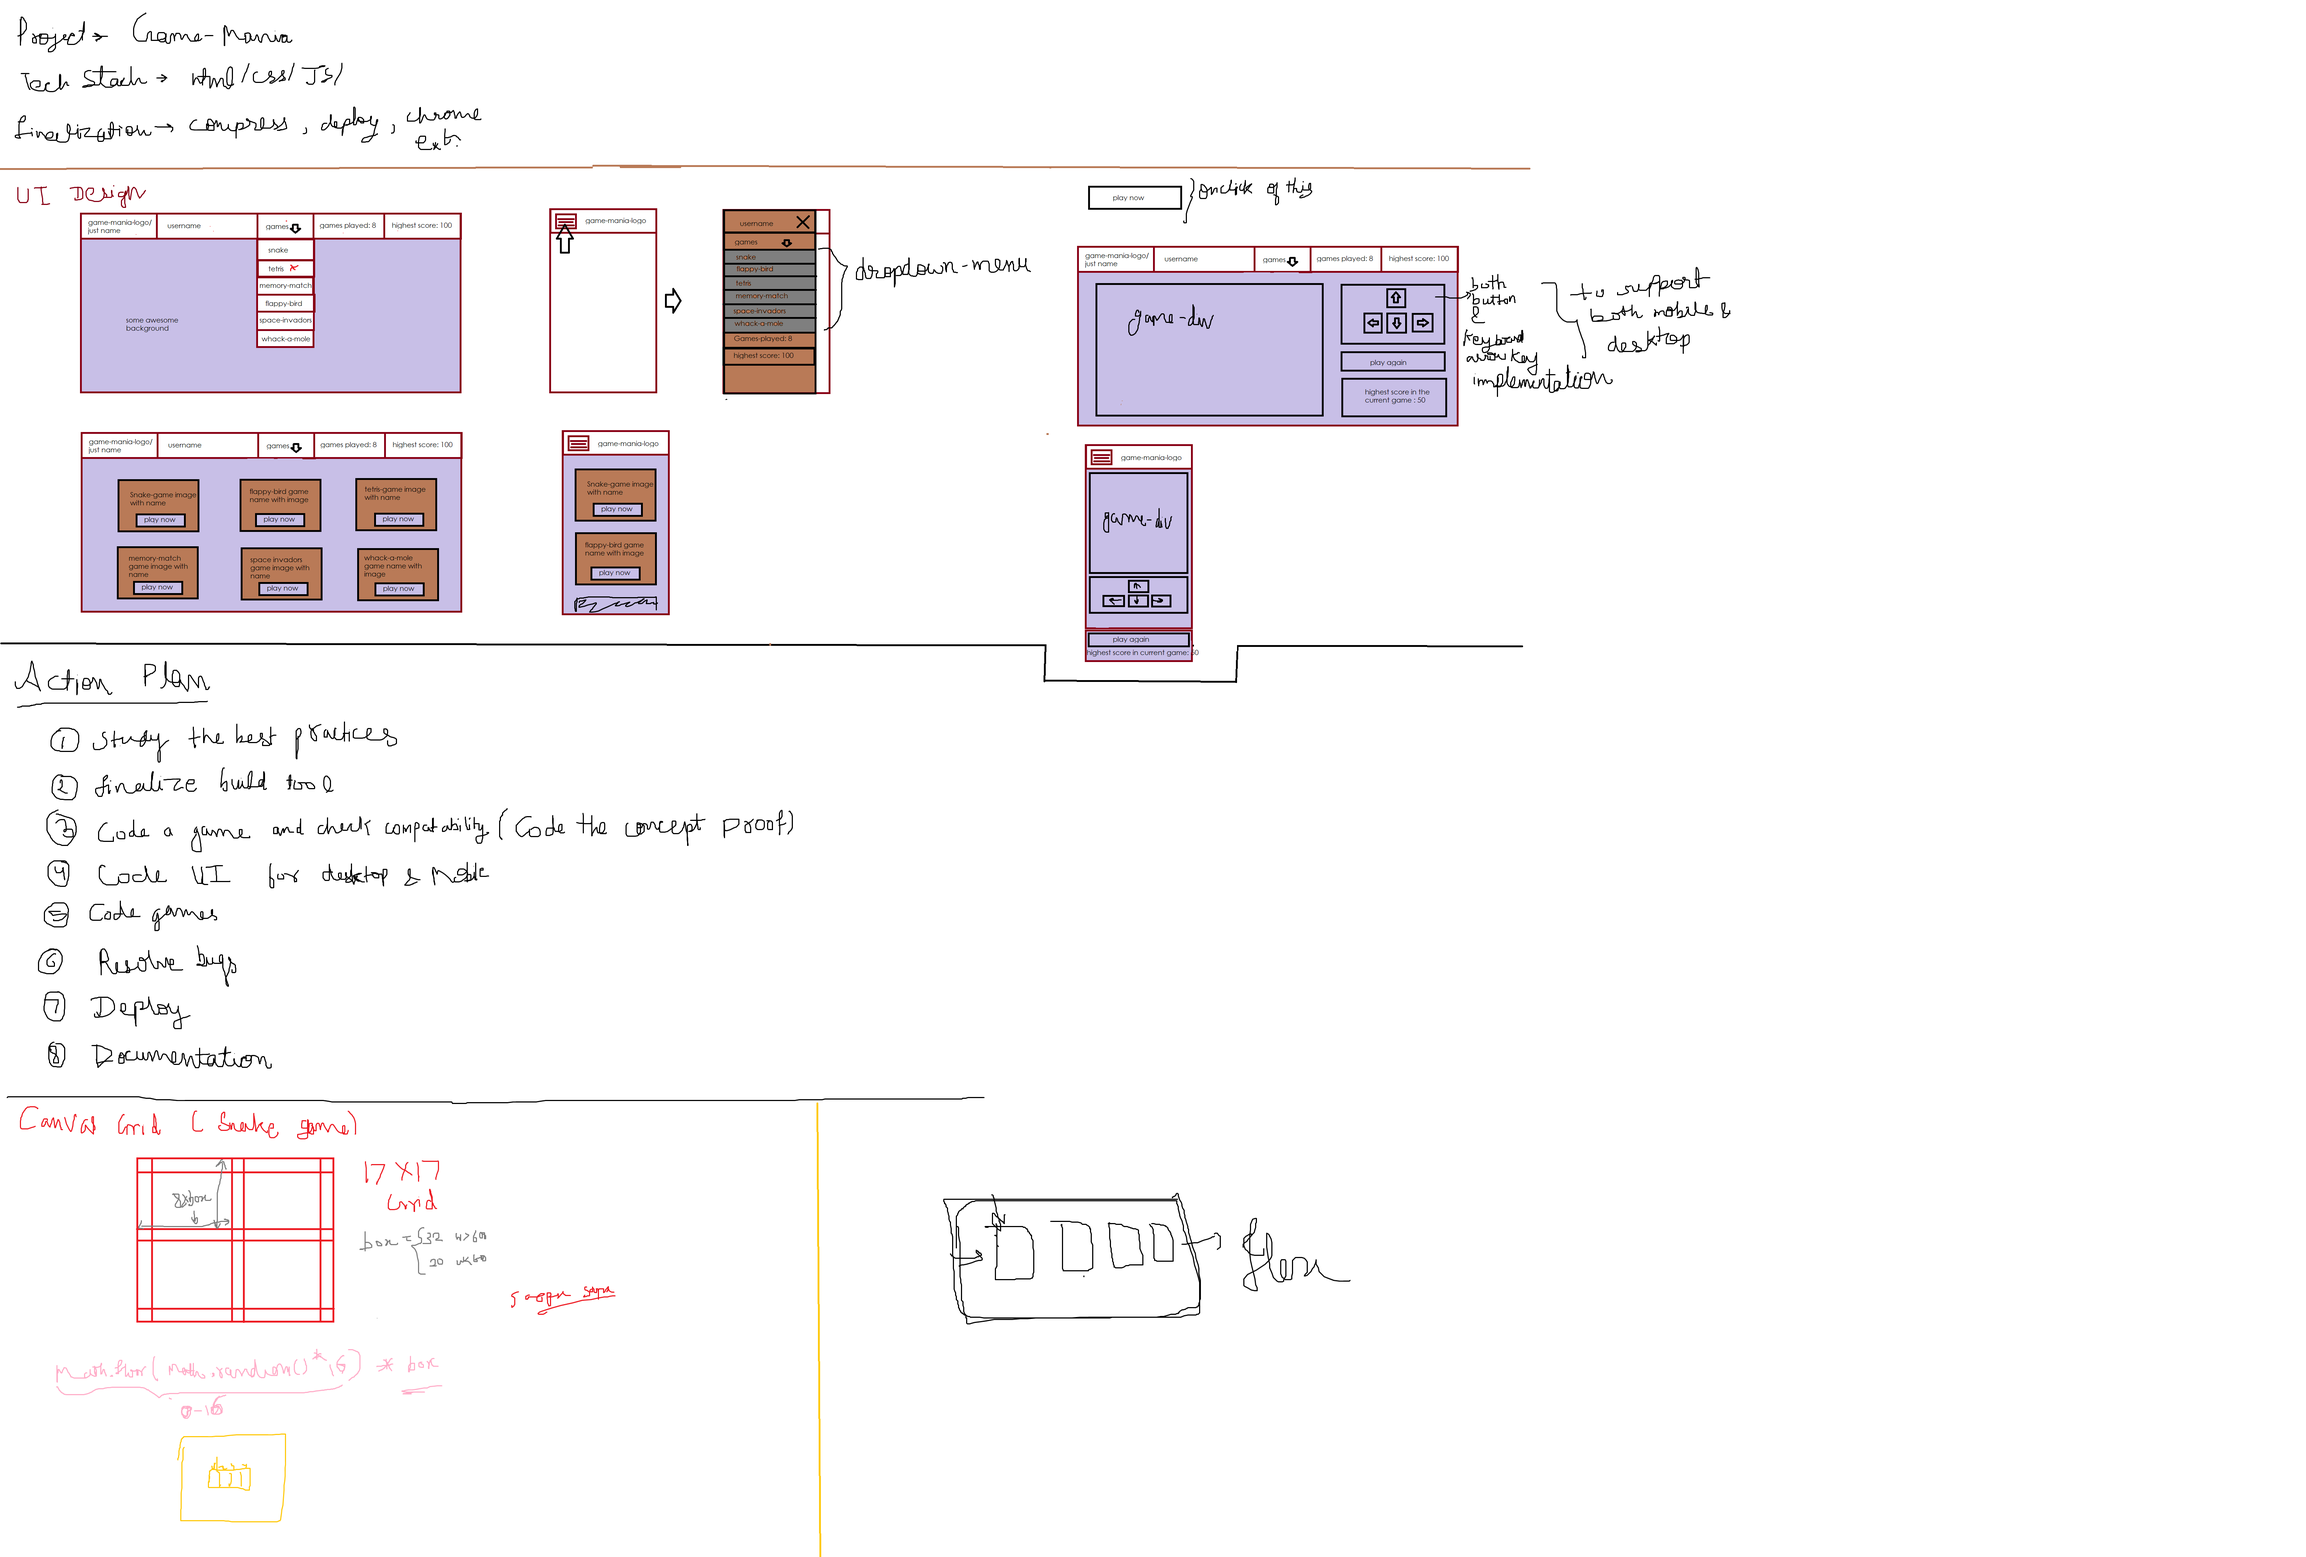
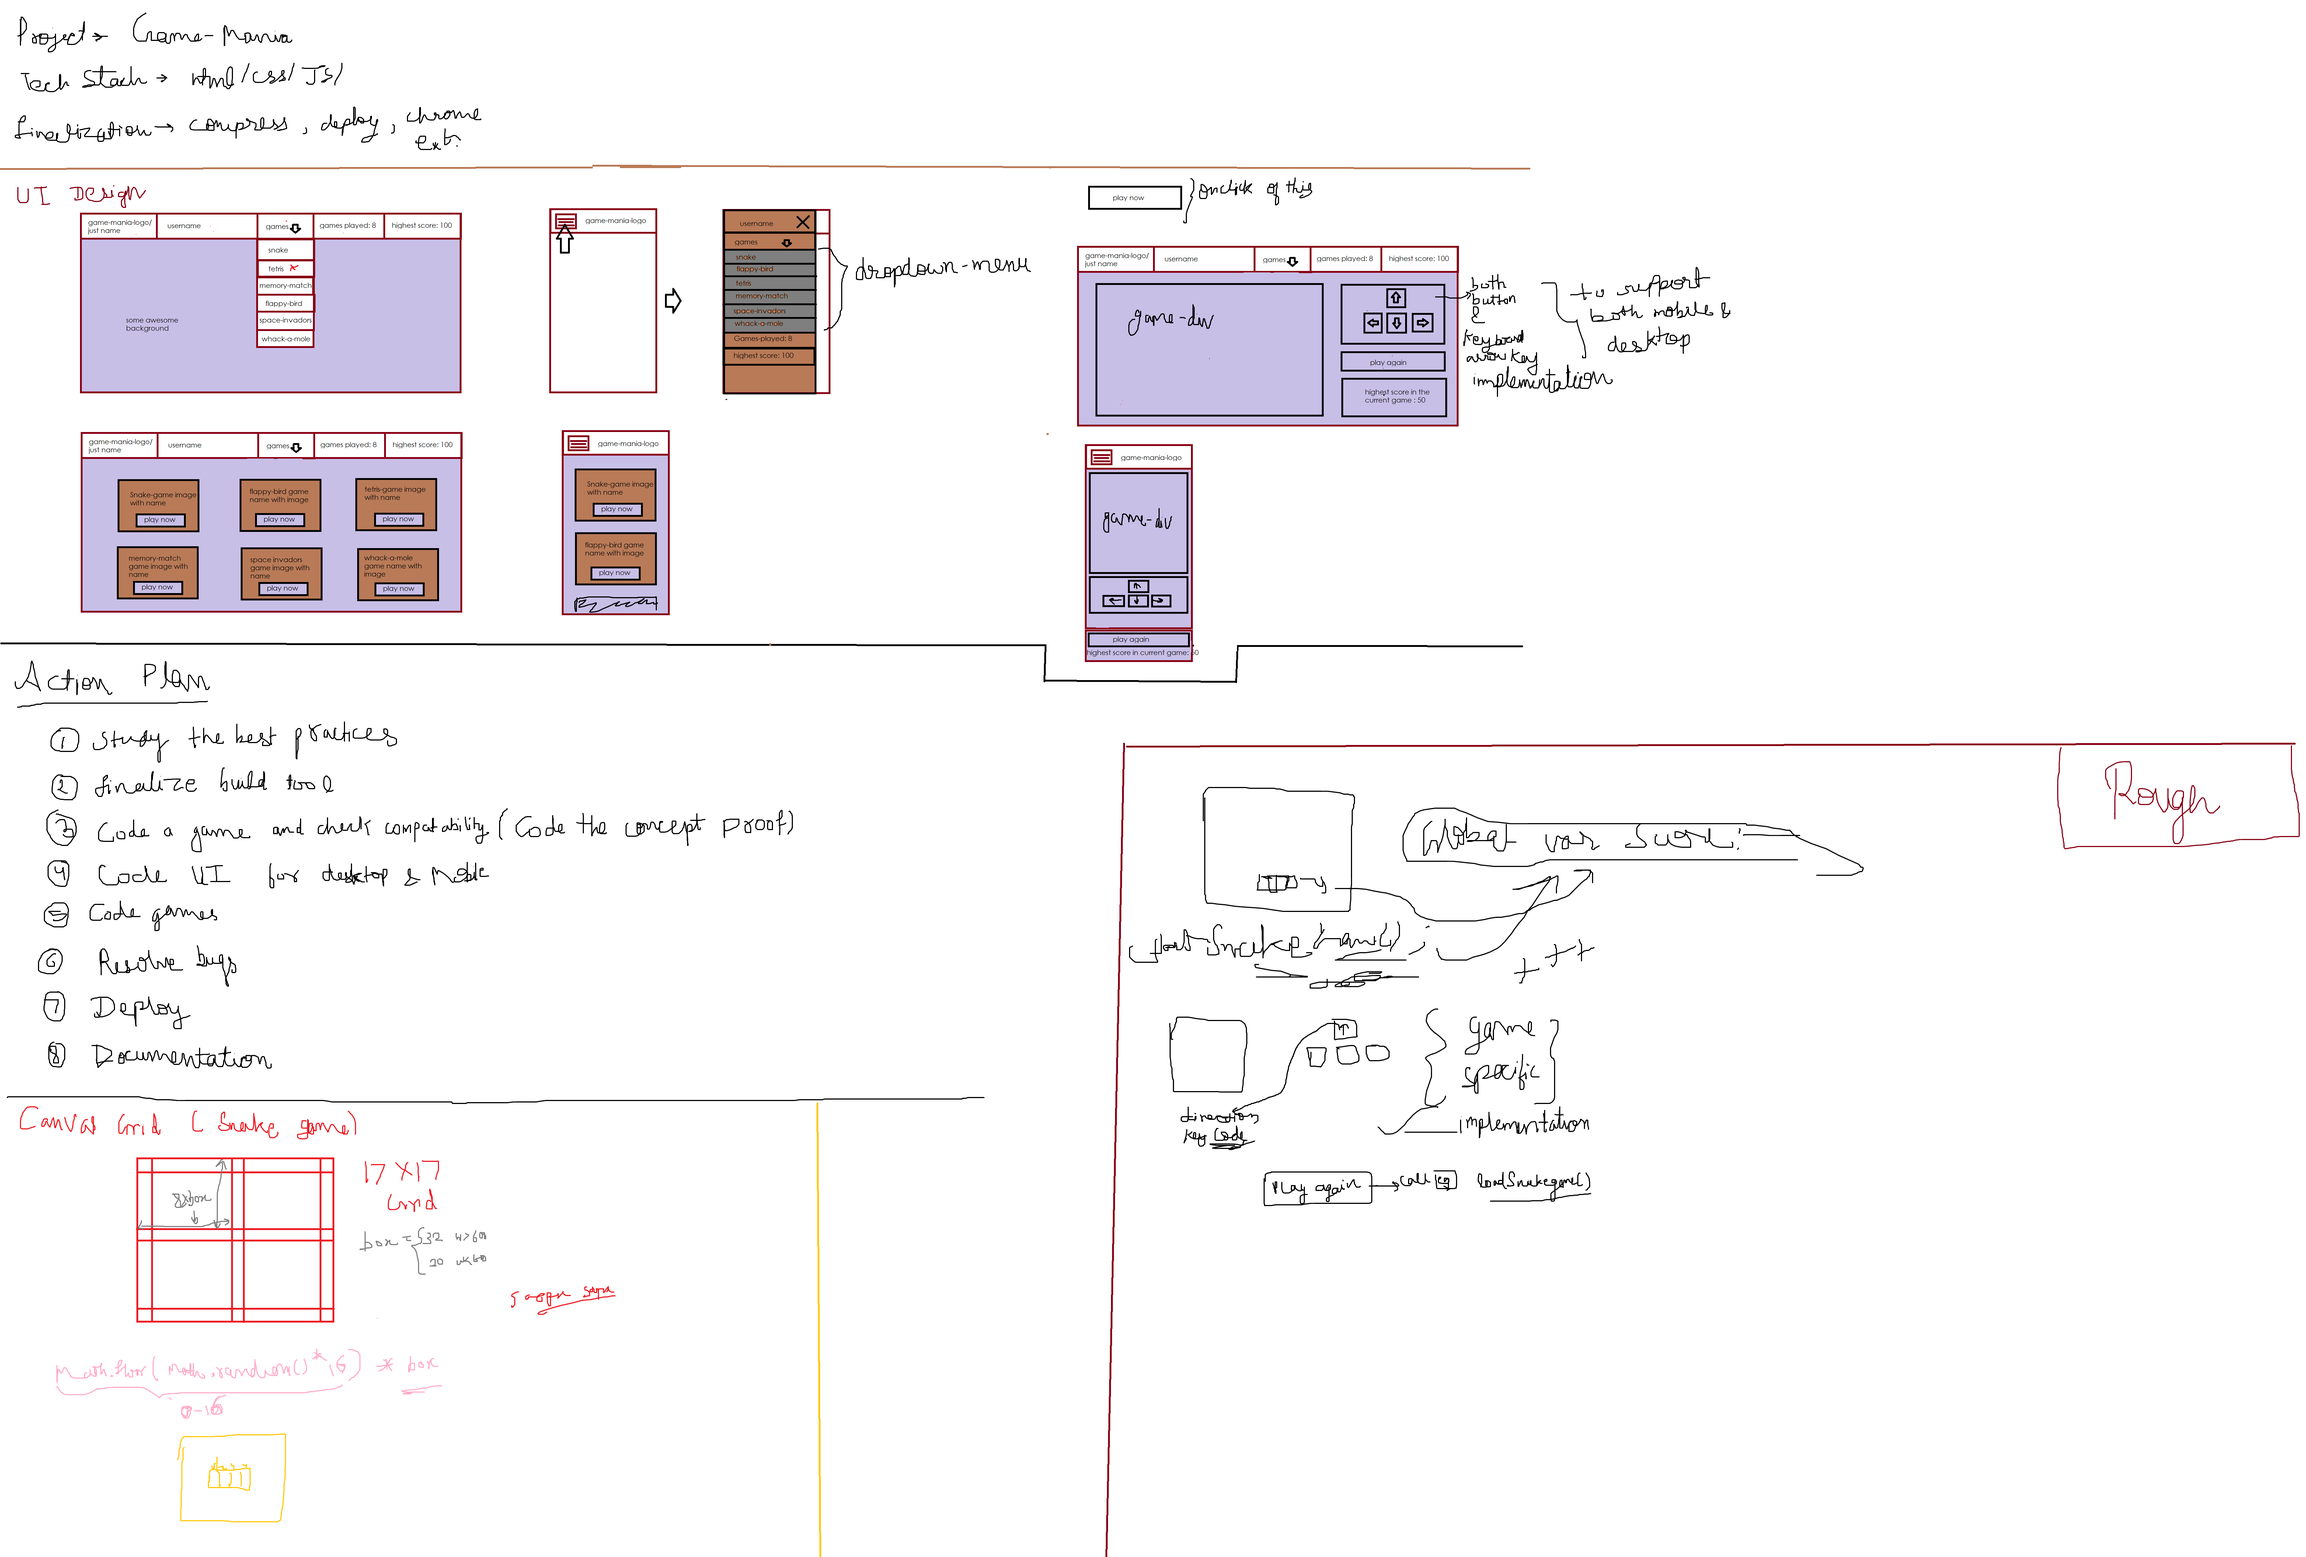
fully functional snake game integrated
solved the issue with play again and integrated it properly with the
rest UI

diff --git a/index.html b/index.html
@@ -13,7 +13,7 @@
 
         <nav class="navbar">
             <span id="hamburger"><svg xmlns="http://www.w3.org/2000/svg" xmlns:xlink="http://www.w3.org/1999/xlink" aria-hidden="true" focusable="false" width="1.2em" height="1em" style="-ms-transform: rotate(360deg); -webkit-transform: rotate(360deg); transform: rotate(360deg);" preserveAspectRatio="xMidYMid meet" viewBox="0 0 1536 1280"><path d="M1536 1088v128q0 26-19 45t-45 19H64q-26 0-45-19t-19-45v-128q0-26 19-45t45-19h1408q26 0 45 19t19 45zm0-512v128q0 26-19 45t-45 19H64q-26 0-45-19T0 704V576q0-26 19-45t45-19h1408q26 0 45 19t19 45zm0-512v128q0 26-19 45t-45 19H64q-26 0-45-19T0 192V64q0-26 19-45T64 0h1408q26 0 45 19t19 45z" fill="black"/></svg></span>
-            <a href="#" id="logo">Game Mania</a>
+            <a onclick="return mountCardsView()" id="logo">Game Mania</a>
             <input type="text" id="username" placeholder="user">
             
             <ul id="nav-items">
@@ -22,7 +22,7 @@
                     <ul id="dropdown-menu">
                         <!-- temporary mounting unmounting -->
                         <li onclick="return unmountCardsView()"><span>Snake</span></li>
-                        <li onclick="return mountCardsView()">Flappy Bird</li>
+                        <li>Flappy Bird</li>
                         <li>memory match</li>
                         <li>space invadors</li>
                     </ul>
@@ -57,7 +57,7 @@
                 <div id="controls-container">
                     <div id="arrow-key-container">
                         <div id="arrow-key-separate-to-top">
-                            <button class="arrow-key-button" id="top"><svg xmlns="http://www.w3.org/2000/svg" xmlns:xlink="http://www.w3.org/1999/xlink" aria-hidden="true" focusable="false" width="3em" height="3em" style="-ms-transform: rotate(360deg); -webkit-transform: rotate(360deg); transform: rotate(360deg);" preserveAspectRatio="xMidYMid meet" viewBox="0 0 16 16"><g fill="#FF9800"><path fill-rule="evenodd" d="M8 3.5a.5.5 0 0 1 .5.5v9a.5.5 0 0 1-1 0V4a.5.5 0 0 1 .5-.5z"/><path fill-rule="evenodd" d="M7.646 2.646a.5.5 0 0 1 .708 0l3 3a.5.5 0 0 1-.708.708L8 3.707L5.354 6.354a.5.5 0 1 1-.708-.708l3-3z"/></g><rect x="0" y="0" width="16" height="16" fill="rgba(0, 0, 0, 0)" /></svg></button>
+                            <button class="arrow-key-button" id="top" ><svg xmlns="http://www.w3.org/2000/svg" xmlns:xlink="http://www.w3.org/1999/xlink" aria-hidden="true" focusable="false" width="3em" height="3em" style="-ms-transform: rotate(360deg); -webkit-transform: rotate(360deg); transform: rotate(360deg);" preserveAspectRatio="xMidYMid meet" viewBox="0 0 16 16"><g fill="#FF9800"><path fill-rule="evenodd" d="M8 3.5a.5.5 0 0 1 .5.5v9a.5.5 0 0 1-1 0V4a.5.5 0 0 1 .5-.5z"/><path fill-rule="evenodd" d="M7.646 2.646a.5.5 0 0 1 .708 0l3 3a.5.5 0 0 1-.708.708L8 3.707L5.354 6.354a.5.5 0 1 1-.708-.708l3-3z"/></g><rect x="0" y="0" width="16" height="16" fill="rgba(0, 0, 0, 0)" /></svg></button>
                         </div>
                         <div id="arrow-key-separate-to-bottom">
                             <button class="arrow-key-button" id="left"><svg xmlns="http://www.w3.org/2000/svg" xmlns:xlink="http://www.w3.org/1999/xlink" aria-hidden="true" focusable="false" width="3em" height="3em" style="-ms-transform: rotate(360deg); -webkit-transform: rotate(360deg); transform: rotate(360deg);" preserveAspectRatio="xMidYMid meet" viewBox="0 0 16 16"><g fill="#FF9800"><path fill-rule="evenodd" d="M5.854 4.646a.5.5 0 0 1 0 .708L3.207 8l2.647 2.646a.5.5 0 0 1-.708.708l-3-3a.5.5 0 0 1 0-.708l3-3a.5.5 0 0 1 .708 0z"/><path fill-rule="evenodd" d="M2.5 8a.5.5 0 0 1 .5-.5h10.5a.5.5 0 0 1 0 1H3a.5.5 0 0 1-.5-.5z"/></g><rect x="0" y="0" width="16" height="16" fill="rgba(0, 0, 0, 0)" /></svg></button>
@@ -66,8 +66,8 @@
                         </div>
                     </div>
                     <div id="rest-container">
-                        <button class="btn-play-again">PLAY AGAIN</button>
-                        <p class="game-view-score">Highest Score: <span>20</span></p>
+                        <button class="btn-play-again" id="play-again">PLAY AGAIN</button>
+                        <p class="game-view-score">Score: <span id="showScore">0</span></p>
                     </div>
                 </div>
             </div>
@@ -78,7 +78,7 @@
         <!-- snake game  -->
         <!-- <canvas id="canvas"></canvas> -->
         <script src="./src/js/init.js"></script>
-        <script src="./src/js/script.js"></script>
         <script src="src/js/index.js"></script>
+        <script src="./src/js/script.js"></script>
     </body>
 </html>

diff --git a/src/js/script.js b/src/js/script.js
@@ -1,17 +1,24 @@
+const playAgain = document.getElementById("play-again");
 
 function loadSnakeGame() {
+    
+    const top = document.getElementById("top");
+    const right = document.getElementById("right");
+    const bottom = document.getElementById("bottom");
+    const left = document.getElementById("left");
+
     
     // const canvas = document.getElementById("canvas");
     
     // //making canvas responsive
-    // //17*32
-    // canvas.width = 544;
-    // canvas.height = 544;
+    // //17*30
+    // canvas.width = 510;
+    // canvas.height = 510;
     
     // if(window.innerWidth <= 600 ) {
-    //     //17*20
-    //     canvas.width = 340;
-    //     canvas.height = 340;
+    //     //17*16
+    //     canvas.width = 272;
+    //     canvas.height = 272;
     // }
     
     //setting smallest unit 
@@ -120,7 +127,7 @@ function loadSnakeGame() {
         return false;
     }
     
-    //listening to arrow keys and on screen buttons both
+    //listening to arrow keys
     document.addEventListener("keydown",detectDirection);
     
     let direction = "";
@@ -139,6 +146,20 @@ function loadSnakeGame() {
         }
     }
     
+    //triggered when on screen control buttons are pressed
+    left.onclick = function() {
+        detectDirection({keyCode:37})
+    }
+    top.onclick = function() {
+        detectDirection({keyCode:38})
+    }
+    right.onclick = function() {
+        detectDirection({keyCode:39})
+    }
+    bottom.onclick = function() {
+        detectDirection({keyCode:40})
+    }
+
     paintSnakeBoard();
     
     function draw() {
@@ -169,7 +190,7 @@ function loadSnakeGame() {
         //when snake eats the food
         if(snakeX == food.x && snakeY == food.y) {
             generateRandomFood();
-            
+            incrementScore();
         }else {
             //remove tail if snake don't eat food
             if(direction!=="") snake.pop();
@@ -207,18 +228,40 @@ function loadSnakeGame() {
     }
     
     let interval=0;
+    // let pos=0;
+
     function startGame() {
-        
         interval = window.setInterval(draw,100);
+        // console.log(interval[pos]);
     }
     function stopGame() {
-        interval = window.clearInterval(interval);
+        window.clearInterval(interval);
     }
     
     startGame();
     
+    playAgain.onclick = function() {
+        // resetting everything
+        snake = [
+            {
+                x: 8*box ,
+                y: 8*box
+            }
+        ];
+        
+        //food
+        food = {
+            x: randomOnBoard(),
+            y: randomOnBoard()
+        }
+
+        direction = "";
+       
+        startGame();
+    }
 
 
 }    
+
 
 loadSnakeGame();

diff --git a/src/js/index.js b/src/js/index.js
@@ -5,6 +5,7 @@ const navItems = document.getElementById("nav-items");
 const usernameField = document.getElementById("username");
 const viewOneContainer = document.getElementById("viewOneContainer");
 const viewTwoContainer = document.getElementById("viewTwoContainer");
+const showScore = document.getElementById("showScore");
 
 let isDropdownVisible = false;
 let isHamburgerClicked = false;
@@ -57,6 +58,10 @@ function mountCardsView() {
     
 }
 
+function incrementScore() {
+    ++score;
+    showScore.innerText = score;
+}
 
 
 

diff --git a/src/css/style.css b/src/css/style.css
@@ -55,6 +55,7 @@ body {
     text-decoration: none;
     font-size: 2rem;
     font-weight: 600;
+    cursor: pointer;
 }
 
 #dropdown-icon {
@@ -167,12 +168,14 @@ body {
 /* game board styling */
 
 #viewTwoContainer {
-    display: flex;
+    display: none;
+    /* display: flex; */
     flex-wrap: wrap;
     align-items: center;
     justify-content: center;
     margin-top: 70px;
 }
+
 
 #canvas-container {
     flex-grow: 3;

diff --git a/src/js/init.js b/src/js/init.js
@@ -1,9 +1,10 @@
+let score = 0;
 const canvas = document.getElementById("canvas");
-    
+
 //making canvas responsive
-//17*32
-canvas.width = 544;
-canvas.height = 544;
+//17*30
+canvas.width = 510;
+canvas.height = 510;
     
 if(window.innerWidth <= 600 ) {
     //17*16
